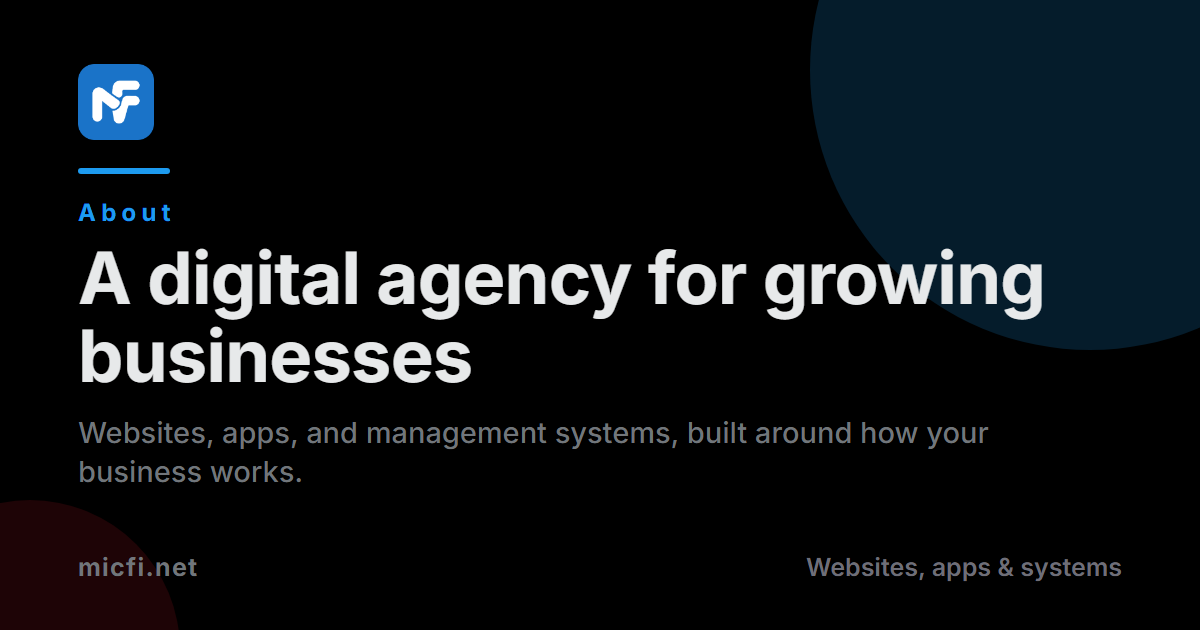
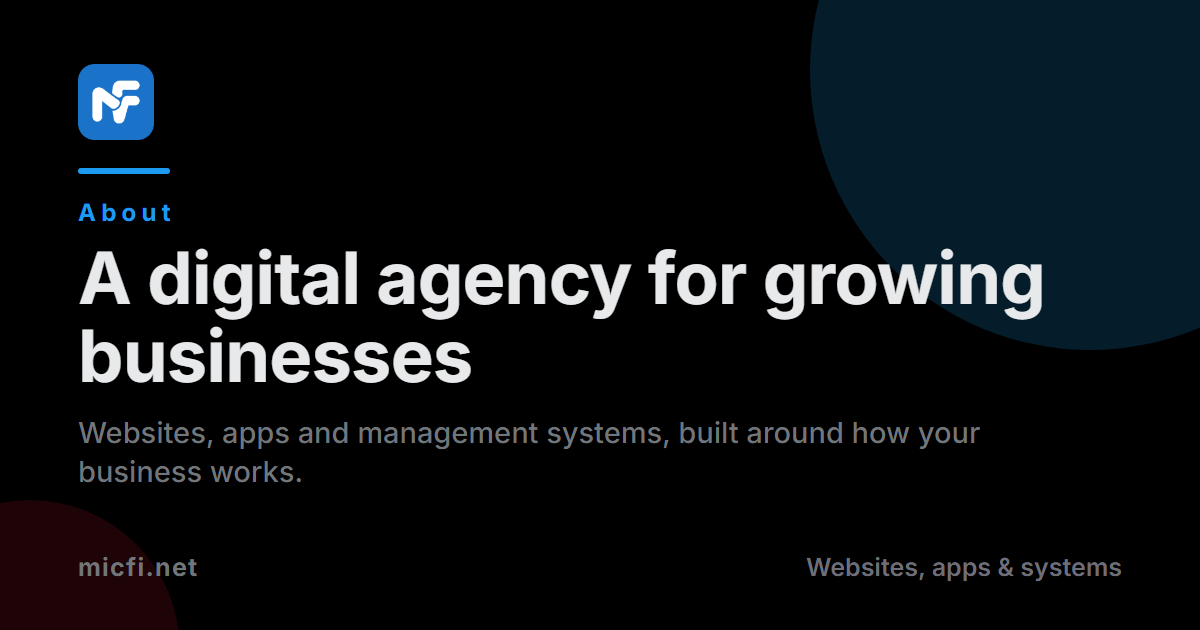
Consistent hero/footer brand copy (remove serial comma)

Changed region(s): [[0.2467, 0.6635, 0.8325, 0.7238]]

diff --git a/about/index.html b/about/index.html
@@ -10,7 +10,7 @@
   <meta property="og:type" content="website">
   <meta property="og:site_name" content="MicFi">
   <meta property="og:title" content="A digital agency for growing businesses">
-  <meta property="og:description" content="Websites, apps, and management systems, built around how your business works.">
+  <meta property="og:description" content="Websites, apps and management systems, built around how your business works.">
   <meta property="og:url" content="https://micfi.net/about/">
   <meta property="og:image" content="https://micfi.net/assets/og/about.png">
   <meta property="og:image:type" content="image/png">
@@ -20,7 +20,7 @@
   <meta property="og:locale" content="en_US">
   <meta name="twitter:card" content="summary_large_image">
   <meta name="twitter:title" content="A digital agency for growing businesses">
-  <meta name="twitter:description" content="Websites, apps, and management systems, built around how your business works.">
+  <meta name="twitter:description" content="Websites, apps and management systems, built around how your business works.">
   <meta name="twitter:image" content="https://micfi.net/assets/og/about.png">
   <meta name="twitter:image:alt" content="A digital agency for growing businesses">
   <!-- META:END -->
@@ -44,9 +44,9 @@
     } catch (e) {}
   </script>
 <!-- SEO:JSONLD START generated by tools/generate-meta.js from js/config.js. Do not edit by hand. -->
-  <script type="application/ld+json">{"@context":"https://schema.org","@type":"Organization","name":"MicFi","alternateName":["MicFi Digital","MicFi Uganda"],"url":"https://micfi.net/","logo":"https://micfi.net/assets/mark.png","description":"MicFi is a digital agency building websites, apps, and management systems for growing businesses.","email":"info@micfi.net","telephone":"+256762451545","address":{"@type":"PostalAddress","addressLocality":"Kansanga, Kampala, Uganda","addressCountry":"UG"},"areaServed":{"@type":"Country","name":"Uganda"},"sameAs":["https://x.com/1micfi","https://www.facebook.com/micfiug","https://www.youtube.com/@1micfi"]}</script>
+  <script type="application/ld+json">{"@context":"https://schema.org","@type":"Organization","name":"MicFi","alternateName":["MicFi Digital","MicFi Uganda"],"url":"https://micfi.net/","logo":"https://micfi.net/assets/mark.png","description":"MicFi is a digital agency building Websites, apps and management systems for growing businesses.","email":"info@micfi.net","telephone":"+256762451545","address":{"@type":"PostalAddress","addressLocality":"Kansanga, Kampala, Uganda","addressCountry":"UG"},"areaServed":{"@type":"Country","name":"Uganda"},"sameAs":["https://x.com/1micfi","https://www.facebook.com/micfiug","https://www.youtube.com/@1micfi"]}</script>
   <script type="application/ld+json">{"@context":"https://schema.org","@type":"WebSite","name":"MicFi","url":"https://micfi.net/","publisher":{"@type":"Organization","name":"MicFi","url":"https://micfi.net/"},"alternateName":"MicFi Digital"}</script>
-  <script type="application/ld+json">{"@context":"https://schema.org","@type":"FAQPage","mainEntity":[{"@type":"Question","name":"What is MicFi?","acceptedAnswer":{"@type":"Answer","text":"MicFi is a digital agency that designs and builds websites, apps, and management systems for growing businesses."}},{"@type":"Question","name":"Where is MicFi located?","acceptedAnswer":{"@type":"Answer","text":"MicFi is based in Kansanga, Kampala, Uganda. We work with clients in person and remotely."}},{"@type":"Question","name":"What does MicFi build?","acceptedAnswer":{"@type":"Answer","text":"We build websites, web and desktop applications, management systems such as point of sale and HR tools, and custom digital solutions."}},{"@type":"Question","name":"How do I contact MicFi?","acceptedAnswer":{"@type":"Answer","text":"Email info@micfi.net, call or WhatsApp +256762451545, or use the contact form on this website."}}]}</script>
+  <script type="application/ld+json">{"@context":"https://schema.org","@type":"FAQPage","mainEntity":[{"@type":"Question","name":"What is MicFi?","acceptedAnswer":{"@type":"Answer","text":"MicFi is a digital agency that designs and builds Websites, apps and management systems for growing businesses."}},{"@type":"Question","name":"Where is MicFi located?","acceptedAnswer":{"@type":"Answer","text":"MicFi is based in Kansanga, Kampala, Uganda. We work with clients in person and remotely."}},{"@type":"Question","name":"What does MicFi build?","acceptedAnswer":{"@type":"Answer","text":"We build websites, web and desktop applications, management systems such as point of sale and HR tools, and custom digital solutions."}},{"@type":"Question","name":"How do I contact MicFi?","acceptedAnswer":{"@type":"Answer","text":"Email info@micfi.net, call or WhatsApp +256762451545, or use the contact form on this website."}}]}</script>
   <!-- SEO:JSONLD END -->
 </head>
 <body class="page-about">
@@ -105,7 +105,7 @@
           </button>
           <div class="faq-answer" data-faq-answer>
             <div class="faq-answer-inner">
-              <p class="row-text">MicFi is a digital agency that designs and builds websites, apps, and management systems for growing businesses.</p>
+              <p class="row-text">MicFi is a digital agency that designs and builds Websites, apps and management systems for growing businesses.</p>
             </div>
           </div>
         </div>
@@ -229,7 +229,7 @@
     </a>
     <nav class="footer-links" aria-label="Footer" data-nav="footer"><a href="/">Home</a><a href="/services/">Services</a><a href="/products/">Products</a><a href="/blog/">Blog</a><a href="/about/" aria-current="page">About</a><a href="/contact/">Contact</a></nav>
     <div class="social-row" data-social-row><a href="https://x.com/1micfi" aria-label="MicFi on X"><svg class="icon icon-x" viewBox="0 0 24 24" width="18" height="18" fill="currentColor" aria-hidden="true" focusable="false"><path d="M18.244 2.25h3.308l-7.227 8.26 8.502 11.24H16.17l-5.214-6.817L4.99 21.75H1.68l7.73-8.835L1.254 2.25H8.08l4.713 6.231zm-1.161 17.52h1.833L7.084 4.126H5.117z"/></svg></a><a href="https://www.facebook.com/micfiug" aria-label="MicFi on Facebook"><svg class="icon icon-facebook" viewBox="0 0 24 24" width="18" height="18" fill="currentColor" aria-hidden="true" focusable="false"><path d="M24 12.073c0-6.627-5.373-12-12-12s-12 5.373-12 12c0 5.99 4.388 10.954 10.125 11.854v-8.385H7.078v-3.47h3.047V9.43c0-3.007 1.792-4.669 4.533-4.669 1.312 0 2.686.235 2.686.235v2.953H15.83c-1.491 0-1.956.925-1.956 1.874v2.25h3.328l-.532 3.47h-2.796v8.385C19.612 23.027 24 18.062 24 12.073z"/></svg></a><a href="https://www.youtube.com/@1micfi" aria-label="MicFi on YouTube"><svg class="icon icon-youtube" viewBox="0 0 24 24" width="18" height="18" fill="currentColor" aria-hidden="true" focusable="false"><path d="M23.498 6.186a3.016 3.016 0 0 0-2.122-2.136C19.505 3.545 12 3.545 12 3.545s-7.505 0-9.377.505A3.017 3.017 0 0 0 .502 6.186C0 8.07 0 12 0 12s0 3.93.502 5.814a3.016 3.016 0 0 0 2.122 2.136c1.871.505 9.376.505 9.376.505s7.505 0 9.377-.505a3.015 3.015 0 0 0 2.122-2.136C24 15.93 24 12 24 12s0-3.93-.502-5.814zM9.545 15.568V8.432L15.818 12l-6.273 3.568z"/></svg></a></div>
-    <p class="footer-brandline muted small" data-brandline>MicFi is a digital agency building websites, apps, and management systems.</p>
+    <p class="footer-brandline muted small" data-brandline>MicFi is a digital agency building websites, apps and management systems.</p>
     <p class="footer-address muted small"><span data-address>Kansanga, Kampala, Uganda</span> &middot; <a data-email-link href="mailto:info@micfi.net">Email</a></p>
     <p class="footer-copy">&copy; <span data-year>2026</span> MicFi. All rights reserved.</p>
   </footer>

diff --git a/index.html b/index.html
@@ -5,12 +5,12 @@
   <meta name="viewport" content="width=device-width, initial-scale=1, viewport-fit=cover">
   <!-- META:START generated by tools/generate-meta.js from js/config.js. Do not edit by hand. -->
   <title>MicFi | Digital Agency for Websites, Apps &amp; Systems</title>
-  <meta name="description" content="MicFi is a digital agency building websites, apps, and management systems for growing businesses.">
+  <meta name="description" content="MicFi is a digital agency building Websites, apps and management systems for growing businesses.">
   <link rel="canonical" href="https://micfi.net/">
   <meta property="og:type" content="website">
   <meta property="og:site_name" content="MicFi">
   <meta property="og:title" content="Digital solutions built for your business">
-  <meta property="og:description" content="Websites, apps, and management systems for growing businesses.">
+  <meta property="og:description" content="Websites, apps and management systems for growing businesses.">
   <meta property="og:url" content="https://micfi.net/">
   <meta property="og:image" content="https://micfi.net/assets/og/home.png">
   <meta property="og:image:type" content="image/png">
@@ -20,7 +20,7 @@
   <meta property="og:locale" content="en_US">
   <meta name="twitter:card" content="summary_large_image">
   <meta name="twitter:title" content="Digital solutions built for your business">
-  <meta name="twitter:description" content="Websites, apps, and management systems for growing businesses.">
+  <meta name="twitter:description" content="Websites, apps and management systems for growing businesses.">
   <meta name="twitter:image" content="https://micfi.net/assets/og/home.png">
   <meta name="twitter:image:alt" content="Digital solutions built for your business">
   <!-- META:END -->
@@ -49,7 +49,7 @@
     } catch (e) {}
   </script>
 <!-- SEO:JSONLD START generated by tools/generate-meta.js from js/config.js. Do not edit by hand. -->
-  <script type="application/ld+json">{"@context":"https://schema.org","@type":"Organization","name":"MicFi","alternateName":["MicFi Digital","MicFi Uganda"],"url":"https://micfi.net/","logo":"https://micfi.net/assets/mark.png","description":"MicFi is a digital agency building websites, apps, and management systems for growing businesses.","email":"info@micfi.net","telephone":"+256762451545","address":{"@type":"PostalAddress","addressLocality":"Kansanga, Kampala, Uganda","addressCountry":"UG"},"areaServed":{"@type":"Country","name":"Uganda"},"sameAs":["https://x.com/1micfi","https://www.facebook.com/micfiug","https://www.youtube.com/@1micfi"]}</script>
+  <script type="application/ld+json">{"@context":"https://schema.org","@type":"Organization","name":"MicFi","alternateName":["MicFi Digital","MicFi Uganda"],"url":"https://micfi.net/","logo":"https://micfi.net/assets/mark.png","description":"MicFi is a digital agency building Websites, apps and management systems for growing businesses.","email":"info@micfi.net","telephone":"+256762451545","address":{"@type":"PostalAddress","addressLocality":"Kansanga, Kampala, Uganda","addressCountry":"UG"},"areaServed":{"@type":"Country","name":"Uganda"},"sameAs":["https://x.com/1micfi","https://www.facebook.com/micfiug","https://www.youtube.com/@1micfi"]}</script>
   <script type="application/ld+json">{"@context":"https://schema.org","@type":"WebSite","name":"MicFi","url":"https://micfi.net/","publisher":{"@type":"Organization","name":"MicFi","url":"https://micfi.net/"},"alternateName":"MicFi Digital"}</script>
   <!-- SEO:JSONLD END -->
 </head>
@@ -81,7 +81,7 @@
     <section class="hero container">
       <p class="eyebrow reveal"><svg class="icon" viewBox="0 0 24 24" width="14" height="14" fill="currentColor" aria-hidden="true" focusable="false"><path d="M12 1Q15 9 23 12Q15 15 12 23Q9 15 1 12Q9 9 12 1Z"/></svg>Digital agency</p>
       <h1 class="reveal">MicFi builds <span>websites, apps and management systems.</span></h1>
-      <p class="hero-text reveal">MicFi is a digital agency for growing businesses. We design and build fast, modern websites, apps, and management systems that help you run better and get found online.</p>
+      <p class="hero-text reveal">MicFi is a digital agency for growing businesses. We design and build fast, modern websites, apps and management systems that help you run better and get found online.</p>
       <div class="hero-actions reveal">
         <a class="btn btn-primary" href="/contact/">Start a Project</a>
         <a class="btn btn-ghost" href="/services/">Explore Services</a>
@@ -252,7 +252,7 @@
     </a>
     <nav class="footer-links" aria-label="Footer" data-nav="footer"><a href="/" aria-current="page">Home</a><a href="/services/">Services</a><a href="/products/">Products</a><a href="/blog/">Blog</a><a href="/about/">About</a><a href="/contact/">Contact</a></nav>
     <div class="social-row" data-social-row><a href="https://x.com/1micfi" aria-label="MicFi on X"><svg class="icon icon-x" viewBox="0 0 24 24" width="18" height="18" fill="currentColor" aria-hidden="true" focusable="false"><path d="M18.244 2.25h3.308l-7.227 8.26 8.502 11.24H16.17l-5.214-6.817L4.99 21.75H1.68l7.73-8.835L1.254 2.25H8.08l4.713 6.231zm-1.161 17.52h1.833L7.084 4.126H5.117z"/></svg></a><a href="https://www.facebook.com/micfiug" aria-label="MicFi on Facebook"><svg class="icon icon-facebook" viewBox="0 0 24 24" width="18" height="18" fill="currentColor" aria-hidden="true" focusable="false"><path d="M24 12.073c0-6.627-5.373-12-12-12s-12 5.373-12 12c0 5.99 4.388 10.954 10.125 11.854v-8.385H7.078v-3.47h3.047V9.43c0-3.007 1.792-4.669 4.533-4.669 1.312 0 2.686.235 2.686.235v2.953H15.83c-1.491 0-1.956.925-1.956 1.874v2.25h3.328l-.532 3.47h-2.796v8.385C19.612 23.027 24 18.062 24 12.073z"/></svg></a><a href="https://www.youtube.com/@1micfi" aria-label="MicFi on YouTube"><svg class="icon icon-youtube" viewBox="0 0 24 24" width="18" height="18" fill="currentColor" aria-hidden="true" focusable="false"><path d="M23.498 6.186a3.016 3.016 0 0 0-2.122-2.136C19.505 3.545 12 3.545 12 3.545s-7.505 0-9.377.505A3.017 3.017 0 0 0 .502 6.186C0 8.07 0 12 0 12s0 3.93.502 5.814a3.016 3.016 0 0 0 2.122 2.136c1.871.505 9.376.505 9.376.505s7.505 0 9.377-.505a3.015 3.015 0 0 0 2.122-2.136C24 15.93 24 12 24 12s0-3.93-.502-5.814zM9.545 15.568V8.432L15.818 12l-6.273 3.568z"/></svg></a></div>
-    <p class="footer-brandline muted small" data-brandline>MicFi is a digital agency building websites, apps, and management systems.</p>
+    <p class="footer-brandline muted small" data-brandline>MicFi is a digital agency building websites, apps and management systems.</p>
     <p class="footer-address muted small"><span data-address>Kansanga, Kampala, Uganda</span> &middot; <a data-email-link href="mailto:info@micfi.net">Email</a></p>
     <p class="footer-copy">&copy; <span data-year>2026</span> MicFi. All rights reserved.</p>
   </footer>

diff --git a/contact/index.html b/contact/index.html
@@ -44,7 +44,7 @@
     } catch (e) {}
   </script>
 <!-- SEO:JSONLD START generated by tools/generate-meta.js from js/config.js. Do not edit by hand. -->
-  <script type="application/ld+json">{"@context":"https://schema.org","@type":"Organization","name":"MicFi","alternateName":["MicFi Digital","MicFi Uganda"],"url":"https://micfi.net/","logo":"https://micfi.net/assets/mark.png","description":"MicFi is a digital agency building websites, apps, and management systems for growing businesses.","email":"info@micfi.net","telephone":"+256762451545","address":{"@type":"PostalAddress","addressLocality":"Kansanga, Kampala, Uganda","addressCountry":"UG"},"areaServed":{"@type":"Country","name":"Uganda"},"sameAs":["https://x.com/1micfi","https://www.facebook.com/micfiug","https://www.youtube.com/@1micfi"]}</script>
+  <script type="application/ld+json">{"@context":"https://schema.org","@type":"Organization","name":"MicFi","alternateName":["MicFi Digital","MicFi Uganda"],"url":"https://micfi.net/","logo":"https://micfi.net/assets/mark.png","description":"MicFi is a digital agency building Websites, apps and management systems for growing businesses.","email":"info@micfi.net","telephone":"+256762451545","address":{"@type":"PostalAddress","addressLocality":"Kansanga, Kampala, Uganda","addressCountry":"UG"},"areaServed":{"@type":"Country","name":"Uganda"},"sameAs":["https://x.com/1micfi","https://www.facebook.com/micfiug","https://www.youtube.com/@1micfi"]}</script>
   <script type="application/ld+json">{"@context":"https://schema.org","@type":"WebSite","name":"MicFi","url":"https://micfi.net/","publisher":{"@type":"Organization","name":"MicFi","url":"https://micfi.net/"},"alternateName":"MicFi Digital"}</script>
   <script type="application/ld+json">{"@context":"https://schema.org","@type":"LocalBusiness","name":"MicFi","url":"https://micfi.net/","image":"https://micfi.net/assets/mark.png","email":"info@micfi.net","telephone":"+256762451545","address":{"@type":"PostalAddress","addressLocality":"Kansanga, Kampala, Uganda","addressCountry":"UG"},"areaServed":{"@type":"Country","name":"Uganda"},"sameAs":["https://x.com/1micfi","https://www.facebook.com/micfiug","https://www.youtube.com/@1micfi"]}</script>
   <!-- SEO:JSONLD END -->
@@ -159,7 +159,7 @@
     </a>
     <nav class="footer-links" aria-label="Footer" data-nav="footer"><a href="/">Home</a><a href="/services/">Services</a><a href="/products/">Products</a><a href="/blog/">Blog</a><a href="/about/">About</a><a href="/contact/" aria-current="page">Contact</a></nav>
     <div class="social-row" data-social-row><a href="https://x.com/1micfi" aria-label="MicFi on X"><svg class="icon icon-x" viewBox="0 0 24 24" width="18" height="18" fill="currentColor" aria-hidden="true" focusable="false"><path d="M18.244 2.25h3.308l-7.227 8.26 8.502 11.24H16.17l-5.214-6.817L4.99 21.75H1.68l7.73-8.835L1.254 2.25H8.08l4.713 6.231zm-1.161 17.52h1.833L7.084 4.126H5.117z"/></svg></a><a href="https://www.facebook.com/micfiug" aria-label="MicFi on Facebook"><svg class="icon icon-facebook" viewBox="0 0 24 24" width="18" height="18" fill="currentColor" aria-hidden="true" focusable="false"><path d="M24 12.073c0-6.627-5.373-12-12-12s-12 5.373-12 12c0 5.99 4.388 10.954 10.125 11.854v-8.385H7.078v-3.47h3.047V9.43c0-3.007 1.792-4.669 4.533-4.669 1.312 0 2.686.235 2.686.235v2.953H15.83c-1.491 0-1.956.925-1.956 1.874v2.25h3.328l-.532 3.47h-2.796v8.385C19.612 23.027 24 18.062 24 12.073z"/></svg></a><a href="https://www.youtube.com/@1micfi" aria-label="MicFi on YouTube"><svg class="icon icon-youtube" viewBox="0 0 24 24" width="18" height="18" fill="currentColor" aria-hidden="true" focusable="false"><path d="M23.498 6.186a3.016 3.016 0 0 0-2.122-2.136C19.505 3.545 12 3.545 12 3.545s-7.505 0-9.377.505A3.017 3.017 0 0 0 .502 6.186C0 8.07 0 12 0 12s0 3.93.502 5.814a3.016 3.016 0 0 0 2.122 2.136c1.871.505 9.376.505 9.376.505s7.505 0 9.377-.505a3.015 3.015 0 0 0 2.122-2.136C24 15.93 24 12 24 12s0-3.93-.502-5.814zM9.545 15.568V8.432L15.818 12l-6.273 3.568z"/></svg></a></div>
-    <p class="footer-brandline muted small" data-brandline>MicFi is a digital agency building websites, apps, and management systems.</p>
+    <p class="footer-brandline muted small" data-brandline>MicFi is a digital agency building websites, apps and management systems.</p>
     <p class="footer-address muted small"><span data-address>Kansanga, Kampala, Uganda</span> &middot; <a data-email-link href="mailto:info@micfi.net">Email</a></p>
     <p class="footer-copy">&copy; <span data-year>2026</span> MicFi. All rights reserved.</p>
   </footer>

diff --git a/blog/index.html b/blog/index.html
@@ -45,7 +45,7 @@
     } catch (e) {}
   </script>
 <!-- SEO:JSONLD START generated by tools/generate-meta.js from js/config.js. Do not edit by hand. -->
-  <script type="application/ld+json">{"@context":"https://schema.org","@type":"Organization","name":"MicFi","alternateName":["MicFi Digital","MicFi Uganda"],"url":"https://micfi.net/","logo":"https://micfi.net/assets/mark.png","description":"MicFi is a digital agency building websites, apps, and management systems for growing businesses.","email":"info@micfi.net","telephone":"+256762451545","address":{"@type":"PostalAddress","addressLocality":"Kansanga, Kampala, Uganda","addressCountry":"UG"},"areaServed":{"@type":"Country","name":"Uganda"},"sameAs":["https://x.com/1micfi","https://www.facebook.com/micfiug","https://www.youtube.com/@1micfi"]}</script>
+  <script type="application/ld+json">{"@context":"https://schema.org","@type":"Organization","name":"MicFi","alternateName":["MicFi Digital","MicFi Uganda"],"url":"https://micfi.net/","logo":"https://micfi.net/assets/mark.png","description":"MicFi is a digital agency building Websites, apps and management systems for growing businesses.","email":"info@micfi.net","telephone":"+256762451545","address":{"@type":"PostalAddress","addressLocality":"Kansanga, Kampala, Uganda","addressCountry":"UG"},"areaServed":{"@type":"Country","name":"Uganda"},"sameAs":["https://x.com/1micfi","https://www.facebook.com/micfiug","https://www.youtube.com/@1micfi"]}</script>
   <script type="application/ld+json">{"@context":"https://schema.org","@type":"WebSite","name":"MicFi","url":"https://micfi.net/","publisher":{"@type":"Organization","name":"MicFi","url":"https://micfi.net/"},"alternateName":"MicFi Digital"}</script>
   <script type="application/ld+json">{"@context":"https://schema.org","@type":"Blog","name":"MicFi Blog","url":"https://micfi.net/blog/","publisher":{"@type":"Organization","name":"MicFi","url":"https://micfi.net/"}}</script>
   <!-- SEO:JSONLD END -->
@@ -107,7 +107,7 @@
     </a>
     <nav class="footer-links" aria-label="Footer" data-nav="footer"><a href="/">Home</a><a href="/services/">Services</a><a href="/products/">Products</a><a href="/blog/" aria-current="page">Blog</a><a href="/about/">About</a><a href="/contact/">Contact</a></nav>
     <div class="social-row" data-social-row><a href="https://x.com/1micfi" aria-label="MicFi on X"><svg class="icon icon-x" viewBox="0 0 24 24" width="18" height="18" fill="currentColor" aria-hidden="true" focusable="false"><path d="M18.244 2.25h3.308l-7.227 8.26 8.502 11.24H16.17l-5.214-6.817L4.99 21.75H1.68l7.73-8.835L1.254 2.25H8.08l4.713 6.231zm-1.161 17.52h1.833L7.084 4.126H5.117z"/></svg></a><a href="https://www.facebook.com/micfiug" aria-label="MicFi on Facebook"><svg class="icon icon-facebook" viewBox="0 0 24 24" width="18" height="18" fill="currentColor" aria-hidden="true" focusable="false"><path d="M24 12.073c0-6.627-5.373-12-12-12s-12 5.373-12 12c0 5.99 4.388 10.954 10.125 11.854v-8.385H7.078v-3.47h3.047V9.43c0-3.007 1.792-4.669 4.533-4.669 1.312 0 2.686.235 2.686.235v2.953H15.83c-1.491 0-1.956.925-1.956 1.874v2.25h3.328l-.532 3.47h-2.796v8.385C19.612 23.027 24 18.062 24 12.073z"/></svg></a><a href="https://www.youtube.com/@1micfi" aria-label="MicFi on YouTube"><svg class="icon icon-youtube" viewBox="0 0 24 24" width="18" height="18" fill="currentColor" aria-hidden="true" focusable="false"><path d="M23.498 6.186a3.016 3.016 0 0 0-2.122-2.136C19.505 3.545 12 3.545 12 3.545s-7.505 0-9.377.505A3.017 3.017 0 0 0 .502 6.186C0 8.07 0 12 0 12s0 3.93.502 5.814a3.016 3.016 0 0 0 2.122 2.136c1.871.505 9.376.505 9.376.505s7.505 0 9.377-.505a3.015 3.015 0 0 0 2.122-2.136C24 15.93 24 12 24 12s0-3.93-.502-5.814zM9.545 15.568V8.432L15.818 12l-6.273 3.568z"/></svg></a></div>
-    <p class="footer-brandline muted small" data-brandline>MicFi is a digital agency building websites, apps, and management systems.</p>
+    <p class="footer-brandline muted small" data-brandline>MicFi is a digital agency building websites, apps and management systems.</p>
     <p class="footer-address muted small"><span data-address>Kansanga, Kampala, Uganda</span> &middot; <a data-email-link href="mailto:info@micfi.net">Email</a></p>
     <p class="footer-copy">&copy; <span data-year>2026</span> MicFi. All rights reserved.</p>
   </footer>

diff --git a/products/index.html b/products/index.html
@@ -44,7 +44,7 @@
     } catch (e) {}
   </script>
 <!-- SEO:JSONLD START generated by tools/generate-meta.js from js/config.js. Do not edit by hand. -->
-  <script type="application/ld+json">{"@context":"https://schema.org","@type":"Organization","name":"MicFi","alternateName":["MicFi Digital","MicFi Uganda"],"url":"https://micfi.net/","logo":"https://micfi.net/assets/mark.png","description":"MicFi is a digital agency building websites, apps, and management systems for growing businesses.","email":"info@micfi.net","telephone":"+256762451545","address":{"@type":"PostalAddress","addressLocality":"Kansanga, Kampala, Uganda","addressCountry":"UG"},"areaServed":{"@type":"Country","name":"Uganda"},"sameAs":["https://x.com/1micfi","https://www.facebook.com/micfiug","https://www.youtube.com/@1micfi"]}</script>
+  <script type="application/ld+json">{"@context":"https://schema.org","@type":"Organization","name":"MicFi","alternateName":["MicFi Digital","MicFi Uganda"],"url":"https://micfi.net/","logo":"https://micfi.net/assets/mark.png","description":"MicFi is a digital agency building Websites, apps and management systems for growing businesses.","email":"info@micfi.net","telephone":"+256762451545","address":{"@type":"PostalAddress","addressLocality":"Kansanga, Kampala, Uganda","addressCountry":"UG"},"areaServed":{"@type":"Country","name":"Uganda"},"sameAs":["https://x.com/1micfi","https://www.facebook.com/micfiug","https://www.youtube.com/@1micfi"]}</script>
   <script type="application/ld+json">{"@context":"https://schema.org","@type":"WebSite","name":"MicFi","url":"https://micfi.net/","publisher":{"@type":"Organization","name":"MicFi","url":"https://micfi.net/"},"alternateName":"MicFi Digital"}</script>
   <!-- SEO:JSONLD END -->
 </head>
@@ -108,7 +108,7 @@
     </a>
     <nav class="footer-links" aria-label="Footer" data-nav="footer"><a href="/">Home</a><a href="/services/">Services</a><a href="/products/" aria-current="page">Products</a><a href="/blog/">Blog</a><a href="/about/">About</a><a href="/contact/">Contact</a></nav>
     <div class="social-row" data-social-row><a href="https://x.com/1micfi" aria-label="MicFi on X"><svg class="icon icon-x" viewBox="0 0 24 24" width="18" height="18" fill="currentColor" aria-hidden="true" focusable="false"><path d="M18.244 2.25h3.308l-7.227 8.26 8.502 11.24H16.17l-5.214-6.817L4.99 21.75H1.68l7.73-8.835L1.254 2.25H8.08l4.713 6.231zm-1.161 17.52h1.833L7.084 4.126H5.117z"/></svg></a><a href="https://www.facebook.com/micfiug" aria-label="MicFi on Facebook"><svg class="icon icon-facebook" viewBox="0 0 24 24" width="18" height="18" fill="currentColor" aria-hidden="true" focusable="false"><path d="M24 12.073c0-6.627-5.373-12-12-12s-12 5.373-12 12c0 5.99 4.388 10.954 10.125 11.854v-8.385H7.078v-3.47h3.047V9.43c0-3.007 1.792-4.669 4.533-4.669 1.312 0 2.686.235 2.686.235v2.953H15.83c-1.491 0-1.956.925-1.956 1.874v2.25h3.328l-.532 3.47h-2.796v8.385C19.612 23.027 24 18.062 24 12.073z"/></svg></a><a href="https://www.youtube.com/@1micfi" aria-label="MicFi on YouTube"><svg class="icon icon-youtube" viewBox="0 0 24 24" width="18" height="18" fill="currentColor" aria-hidden="true" focusable="false"><path d="M23.498 6.186a3.016 3.016 0 0 0-2.122-2.136C19.505 3.545 12 3.545 12 3.545s-7.505 0-9.377.505A3.017 3.017 0 0 0 .502 6.186C0 8.07 0 12 0 12s0 3.93.502 5.814a3.016 3.016 0 0 0 2.122 2.136c1.871.505 9.376.505 9.376.505s7.505 0 9.377-.505a3.015 3.015 0 0 0 2.122-2.136C24 15.93 24 12 24 12s0-3.93-.502-5.814zM9.545 15.568V8.432L15.818 12l-6.273 3.568z"/></svg></a></div>
-    <p class="footer-brandline muted small" data-brandline>MicFi is a digital agency building websites, apps, and management systems.</p>
+    <p class="footer-brandline muted small" data-brandline>MicFi is a digital agency building websites, apps and management systems.</p>
     <p class="footer-address muted small"><span data-address>Kansanga, Kampala, Uganda</span> &middot; <a data-email-link href="mailto:info@micfi.net">Email</a></p>
     <p class="footer-copy">&copy; <span data-year>2026</span> MicFi. All rights reserved.</p>
   </footer>

diff --git a/services/index.html b/services/index.html
@@ -44,7 +44,7 @@
     } catch (e) {}
   </script>
 <!-- SEO:JSONLD START generated by tools/generate-meta.js from js/config.js. Do not edit by hand. -->
-  <script type="application/ld+json">{"@context":"https://schema.org","@type":"Organization","name":"MicFi","alternateName":["MicFi Digital","MicFi Uganda"],"url":"https://micfi.net/","logo":"https://micfi.net/assets/mark.png","description":"MicFi is a digital agency building websites, apps, and management systems for growing businesses.","email":"info@micfi.net","telephone":"+256762451545","address":{"@type":"PostalAddress","addressLocality":"Kansanga, Kampala, Uganda","addressCountry":"UG"},"areaServed":{"@type":"Country","name":"Uganda"},"sameAs":["https://x.com/1micfi","https://www.facebook.com/micfiug","https://www.youtube.com/@1micfi"]}</script>
+  <script type="application/ld+json">{"@context":"https://schema.org","@type":"Organization","name":"MicFi","alternateName":["MicFi Digital","MicFi Uganda"],"url":"https://micfi.net/","logo":"https://micfi.net/assets/mark.png","description":"MicFi is a digital agency building Websites, apps and management systems for growing businesses.","email":"info@micfi.net","telephone":"+256762451545","address":{"@type":"PostalAddress","addressLocality":"Kansanga, Kampala, Uganda","addressCountry":"UG"},"areaServed":{"@type":"Country","name":"Uganda"},"sameAs":["https://x.com/1micfi","https://www.facebook.com/micfiug","https://www.youtube.com/@1micfi"]}</script>
   <script type="application/ld+json">{"@context":"https://schema.org","@type":"WebSite","name":"MicFi","url":"https://micfi.net/","publisher":{"@type":"Organization","name":"MicFi","url":"https://micfi.net/"},"alternateName":"MicFi Digital"}</script>
   <!-- SEO:JSONLD END -->
 </head>
@@ -105,7 +105,7 @@
     </a>
     <nav class="footer-links" aria-label="Footer" data-nav="footer"><a href="/">Home</a><a href="/services/" aria-current="page">Services</a><a href="/products/">Products</a><a href="/blog/">Blog</a><a href="/about/">About</a><a href="/contact/">Contact</a></nav>
     <div class="social-row" data-social-row><a href="https://x.com/1micfi" aria-label="MicFi on X"><svg class="icon icon-x" viewBox="0 0 24 24" width="18" height="18" fill="currentColor" aria-hidden="true" focusable="false"><path d="M18.244 2.25h3.308l-7.227 8.26 8.502 11.24H16.17l-5.214-6.817L4.99 21.75H1.68l7.73-8.835L1.254 2.25H8.08l4.713 6.231zm-1.161 17.52h1.833L7.084 4.126H5.117z"/></svg></a><a href="https://www.facebook.com/micfiug" aria-label="MicFi on Facebook"><svg class="icon icon-facebook" viewBox="0 0 24 24" width="18" height="18" fill="currentColor" aria-hidden="true" focusable="false"><path d="M24 12.073c0-6.627-5.373-12-12-12s-12 5.373-12 12c0 5.99 4.388 10.954 10.125 11.854v-8.385H7.078v-3.47h3.047V9.43c0-3.007 1.792-4.669 4.533-4.669 1.312 0 2.686.235 2.686.235v2.953H15.83c-1.491 0-1.956.925-1.956 1.874v2.25h3.328l-.532 3.47h-2.796v8.385C19.612 23.027 24 18.062 24 12.073z"/></svg></a><a href="https://www.youtube.com/@1micfi" aria-label="MicFi on YouTube"><svg class="icon icon-youtube" viewBox="0 0 24 24" width="18" height="18" fill="currentColor" aria-hidden="true" focusable="false"><path d="M23.498 6.186a3.016 3.016 0 0 0-2.122-2.136C19.505 3.545 12 3.545 12 3.545s-7.505 0-9.377.505A3.017 3.017 0 0 0 .502 6.186C0 8.07 0 12 0 12s0 3.93.502 5.814a3.016 3.016 0 0 0 2.122 2.136c1.871.505 9.376.505 9.376.505s7.505 0 9.377-.505a3.015 3.015 0 0 0 2.122-2.136C24 15.93 24 12 24 12s0-3.93-.502-5.814zM9.545 15.568V8.432L15.818 12l-6.273 3.568z"/></svg></a></div>
-    <p class="footer-brandline muted small" data-brandline>MicFi is a digital agency building websites, apps, and management systems.</p>
+    <p class="footer-brandline muted small" data-brandline>MicFi is a digital agency building websites, apps and management systems.</p>
     <p class="footer-address muted small"><span data-address>Kansanga, Kampala, Uganda</span> &middot; <a data-email-link href="mailto:info@micfi.net">Email</a></p>
     <p class="footer-copy">&copy; <span data-year>2026</span> MicFi. All rights reserved.</p>
   </footer>

diff --git a/js/config.js b/js/config.js
@@ -18,8 +18,8 @@ MicFi.ADDRESS = "Kansanga, Kampala, Uganda";
    search engines understand who MicFi is and where it is based. */
 MicFi.BRAND_NAME = "MicFi";
 MicFi.BRAND_ALTERNATE = ["MicFi Digital", "MicFi Uganda"];
-MicFi.BRAND_LINE = "MicFi is a digital agency building websites, apps, and management systems.";
-MicFi.BRAND_DESCRIPTION = "MicFi is a digital agency building websites, apps, and management systems for growing businesses.";
+MicFi.BRAND_LINE = "MicFi is a digital agency building websites, apps and management systems.";
+MicFi.BRAND_DESCRIPTION = "MicFi is a digital agency building Websites, apps and management systems for growing businesses.";
 
 /* ---- Menu links ----
    Comment out a line with // to hide that page from every menu.
@@ -51,7 +51,7 @@ MicFi.SOCIAL_LINKS = {
 MicFi.FAQ = [
   {
     q: "What is MicFi?",
-    a: "MicFi is a digital agency that designs and builds websites, apps, and management systems for growing businesses."
+    a: "MicFi is a digital agency that designs and builds Websites, apps and management systems for growing businesses."
   },
   {
     q: "Where is MicFi located?",
@@ -104,10 +104,10 @@ MicFi.PAGE_META = {
   "/": {
     file: "index.html",
     title: "MicFi | Digital Agency for Websites, Apps & Systems",
-    description: "MicFi is a digital agency building websites, apps, and management systems for growing businesses.",
+    description: "MicFi is a digital agency building Websites, apps and management systems for growing businesses.",
     ogTitle: "Digital solutions built for your business",
     ogEyebrow: "MicFi",
-    ogDescription: "Websites, apps, and management systems for growing businesses.",
+    ogDescription: "Websites, apps and management systems for growing businesses.",
     ogImage: "/assets/og/home.png"
   },
   "/about/": {
@@ -116,7 +116,7 @@ MicFi.PAGE_META = {
     description: "MicFi designs and builds websites, applications, and management systems for growing businesses. Practical digital work, shaped around how you operate.",
     ogTitle: "A digital agency for growing businesses",
     ogEyebrow: "About",
-    ogDescription: "Websites, apps, and management systems, built around how your business works.",
+    ogDescription: "Websites, apps and management systems, built around how your business works.",
     ogImage: "/assets/og/about.png"
   },
   "/blog/": {

diff --git a/404.html b/404.html
@@ -105,7 +105,7 @@
     </a>
     <nav class="footer-links" aria-label="Footer" data-nav="footer"><a href="/">Home</a><a href="/services/">Services</a><a href="/products/">Products</a><a href="/blog/">Blog</a><a href="/about/">About</a><a href="/contact/">Contact</a></nav>
     <div class="social-row" data-social-row><a href="https://x.com/1micfi" aria-label="MicFi on X"><svg class="icon icon-x" viewBox="0 0 24 24" width="18" height="18" fill="currentColor" aria-hidden="true" focusable="false"><path d="M18.244 2.25h3.308l-7.227 8.26 8.502 11.24H16.17l-5.214-6.817L4.99 21.75H1.68l7.73-8.835L1.254 2.25H8.08l4.713 6.231zm-1.161 17.52h1.833L7.084 4.126H5.117z"/></svg></a><a href="https://www.facebook.com/micfiug" aria-label="MicFi on Facebook"><svg class="icon icon-facebook" viewBox="0 0 24 24" width="18" height="18" fill="currentColor" aria-hidden="true" focusable="false"><path d="M24 12.073c0-6.627-5.373-12-12-12s-12 5.373-12 12c0 5.99 4.388 10.954 10.125 11.854v-8.385H7.078v-3.47h3.047V9.43c0-3.007 1.792-4.669 4.533-4.669 1.312 0 2.686.235 2.686.235v2.953H15.83c-1.491 0-1.956.925-1.956 1.874v2.25h3.328l-.532 3.47h-2.796v8.385C19.612 23.027 24 18.062 24 12.073z"/></svg></a><a href="https://www.youtube.com/@1micfi" aria-label="MicFi on YouTube"><svg class="icon icon-youtube" viewBox="0 0 24 24" width="18" height="18" fill="currentColor" aria-hidden="true" focusable="false"><path d="M23.498 6.186a3.016 3.016 0 0 0-2.122-2.136C19.505 3.545 12 3.545 12 3.545s-7.505 0-9.377.505A3.017 3.017 0 0 0 .502 6.186C0 8.07 0 12 0 12s0 3.93.502 5.814a3.016 3.016 0 0 0 2.122 2.136c1.871.505 9.376.505 9.376.505s7.505 0 9.377-.505a3.015 3.015 0 0 0 2.122-2.136C24 15.93 24 12 24 12s0-3.93-.502-5.814zM9.545 15.568V8.432L15.818 12l-6.273 3.568z"/></svg></a></div>
-    <p class="footer-brandline muted small" data-brandline>MicFi is a digital agency building websites, apps, and management systems.</p>
+    <p class="footer-brandline muted small" data-brandline>MicFi is a digital agency building websites, apps and management systems.</p>
     <p class="footer-address muted small"><span data-address>Kansanga, Kampala, Uganda</span> &middot; <a data-email-link href="mailto:info@micfi.net">Email</a></p>
     <p class="footer-copy">&copy; <span data-year>2026</span> MicFi. All rights reserved.</p>
   </footer>

diff --git a/blog/why-your-business-needs-an-hr-system/index.html b/blog/why-your-business-needs-an-hr-system/index.html
@@ -102,7 +102,7 @@
     </a>
     <nav class="footer-links" aria-label="Footer" data-nav="footer"><a href="/">Home</a><a href="/services/">Services</a><a href="/products/">Products</a><a href="/blog/">Blog</a><a href="/about/">About</a><a href="/contact/">Contact</a></nav>
     <div class="social-row" data-social-row><a href="https://x.com/1micfi" aria-label="MicFi on X"><svg class="icon icon-x" viewBox="0 0 24 24" width="18" height="18" fill="currentColor" aria-hidden="true" focusable="false"><path d="M18.244 2.25h3.308l-7.227 8.26 8.502 11.24H16.17l-5.214-6.817L4.99 21.75H1.68l7.73-8.835L1.254 2.25H8.08l4.713 6.231zm-1.161 17.52h1.833L7.084 4.126H5.117z"/></svg></a><a href="https://www.facebook.com/micfiug" aria-label="MicFi on Facebook"><svg class="icon icon-facebook" viewBox="0 0 24 24" width="18" height="18" fill="currentColor" aria-hidden="true" focusable="false"><path d="M24 12.073c0-6.627-5.373-12-12-12s-12 5.373-12 12c0 5.99 4.388 10.954 10.125 11.854v-8.385H7.078v-3.47h3.047V9.43c0-3.007 1.792-4.669 4.533-4.669 1.312 0 2.686.235 2.686.235v2.953H15.83c-1.491 0-1.956.925-1.956 1.874v2.25h3.328l-.532 3.47h-2.796v8.385C19.612 23.027 24 18.062 24 12.073z"/></svg></a><a href="https://www.youtube.com/@1micfi" aria-label="MicFi on YouTube"><svg class="icon icon-youtube" viewBox="0 0 24 24" width="18" height="18" fill="currentColor" aria-hidden="true" focusable="false"><path d="M23.498 6.186a3.016 3.016 0 0 0-2.122-2.136C19.505 3.545 12 3.545 12 3.545s-7.505 0-9.377.505A3.017 3.017 0 0 0 .502 6.186C0 8.07 0 12 0 12s0 3.93.502 5.814a3.016 3.016 0 0 0 2.122 2.136c1.871.505 9.376.505 9.376.505s7.505 0 9.377-.505a3.015 3.015 0 0 0 2.122-2.136C24 15.93 24 12 24 12s0-3.93-.502-5.814zM9.545 15.568V8.432L15.818 12l-6.273 3.568z"/></svg></a></div>
-    <p class="footer-brandline muted small" data-brandline>MicFi is a digital agency building websites, apps, and management systems.</p>
+    <p class="footer-brandline muted small" data-brandline>MicFi is a digital agency building websites, apps and management systems.</p>
     <p class="footer-address muted small"><span data-address>Kansanga, Kampala, Uganda</span> &middot; <a data-email-link href="mailto:info@micfi.net">Email</a></p>
     <p class="footer-copy">&copy; <span data-year>2026</span> MicFi. All rights reserved.</p>
   </footer>

diff --git a/blog/why-your-shop-needs-a-pos/index.html b/blog/why-your-shop-needs-a-pos/index.html
@@ -102,7 +102,7 @@
     </a>
     <nav class="footer-links" aria-label="Footer" data-nav="footer"><a href="/">Home</a><a href="/services/">Services</a><a href="/products/">Products</a><a href="/blog/">Blog</a><a href="/about/">About</a><a href="/contact/">Contact</a></nav>
     <div class="social-row" data-social-row><a href="https://x.com/1micfi" aria-label="MicFi on X"><svg class="icon icon-x" viewBox="0 0 24 24" width="18" height="18" fill="currentColor" aria-hidden="true" focusable="false"><path d="M18.244 2.25h3.308l-7.227 8.26 8.502 11.24H16.17l-5.214-6.817L4.99 21.75H1.68l7.73-8.835L1.254 2.25H8.08l4.713 6.231zm-1.161 17.52h1.833L7.084 4.126H5.117z"/></svg></a><a href="https://www.facebook.com/micfiug" aria-label="MicFi on Facebook"><svg class="icon icon-facebook" viewBox="0 0 24 24" width="18" height="18" fill="currentColor" aria-hidden="true" focusable="false"><path d="M24 12.073c0-6.627-5.373-12-12-12s-12 5.373-12 12c0 5.99 4.388 10.954 10.125 11.854v-8.385H7.078v-3.47h3.047V9.43c0-3.007 1.792-4.669 4.533-4.669 1.312 0 2.686.235 2.686.235v2.953H15.83c-1.491 0-1.956.925-1.956 1.874v2.25h3.328l-.532 3.47h-2.796v8.385C19.612 23.027 24 18.062 24 12.073z"/></svg></a><a href="https://www.youtube.com/@1micfi" aria-label="MicFi on YouTube"><svg class="icon icon-youtube" viewBox="0 0 24 24" width="18" height="18" fill="currentColor" aria-hidden="true" focusable="false"><path d="M23.498 6.186a3.016 3.016 0 0 0-2.122-2.136C19.505 3.545 12 3.545 12 3.545s-7.505 0-9.377.505A3.017 3.017 0 0 0 .502 6.186C0 8.07 0 12 0 12s0 3.93.502 5.814a3.016 3.016 0 0 0 2.122 2.136c1.871.505 9.376.505 9.376.505s7.505 0 9.377-.505a3.015 3.015 0 0 0 2.122-2.136C24 15.93 24 12 24 12s0-3.93-.502-5.814zM9.545 15.568V8.432L15.818 12l-6.273 3.568z"/></svg></a></div>
-    <p class="footer-brandline muted small" data-brandline>MicFi is a digital agency building websites, apps, and management systems.</p>
+    <p class="footer-brandline muted small" data-brandline>MicFi is a digital agency building websites, apps and management systems.</p>
     <p class="footer-address muted small"><span data-address>Kansanga, Kampala, Uganda</span> &middot; <a data-email-link href="mailto:info@micfi.net">Email</a></p>
     <p class="footer-copy">&copy; <span data-year>2026</span> MicFi. All rights reserved.</p>
   </footer>
